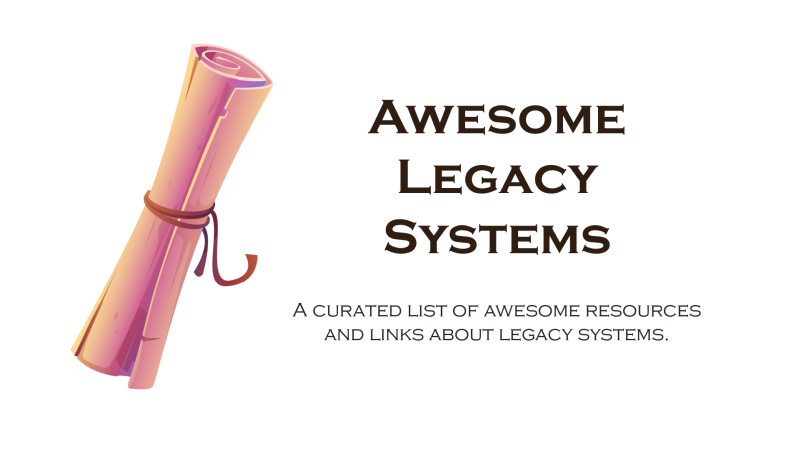
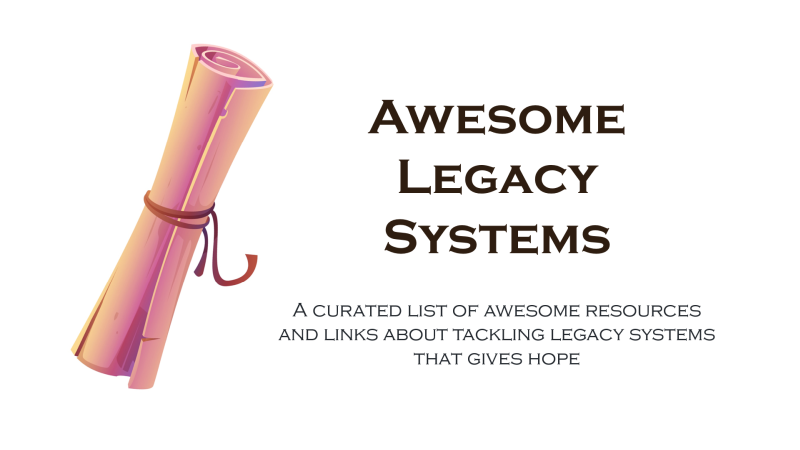
focus topic

Changed region(s): [[0.3438, 0.7156, 0.9062, 0.8089]]

diff --git a/readme.md b/readme.md
@@ -1,6 +1,6 @@
 # Awesome Legacy Systems [![Awesome](https://awesome.re/badge-flat2.svg)](https://awesome.re)
 
-**A curated list of awesome resources and links about legacy systems.**
+**A curated list of awesome resources and links about tackling legacy systems that gives hope.**
 
 _Current state in February 2022: This is the initial draft / work-in-progress of a new awesome list by [Markus Harrer](https://twitter.com/feststelltaste)._
 
@@ -80,6 +80,7 @@ This section lists other awesome lists in the area of legacy systems.
 
 - [Awesome Legacy Code](https://github.com/legacycoderocks/awesome-legacy-code) - a curated list of legacy systems with publicly available source code.
 - [Awesome Software Analytics](https://github.com/feststelltaste/awesome-software-analytics) - a curated list of awesome resources and links about Software Analytics &ndash; a discipline that tries to analyse software data to get ideas about improving legacy systems.
+- [Awesome Technical Debt](https://github.com/labcodes/awesome-technical-debt) - a curated list of Technical Debt talks, articles and books (there might be some overlaps)
 
 
 ## Contribute
